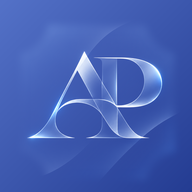
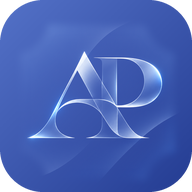
v5.10: скруглённая иконка, офлайн-кэш библиотек, ввод не теряется при обновлении из базы, PIN с клавиатуры, Esc, плавные переходы, подписи нижней панели
Claude-Session: https://claude.ai/code/session_01KmsbEKgkSZd8vVFoyhJJSp

diff --git a/v5/index.html b/v5/index.html
@@ -332,8 +332,9 @@ table.t .neg{color:var(--red)}
   html:not(.mob) #tab-sum.on,html:not(.mob) #tab-stock{max-width:1560px}
 }
 /* мобильный вид: одна колонка, крупные элементы под палец */
-html.mob .tabbar button{padding:12px 0 10px;font-size:13px}
-html.mob .tabbar svg{width:28px;height:28px}
+html.mob .tabbar button{padding:10px 0 9px;font-size:11px;min-width:0;overflow:hidden;text-overflow:ellipsis;white-space:nowrap}
+html.mob .tabbar button.on{font-weight:600;letter-spacing:-.2px}
+html.mob .tabbar svg{width:26px;height:26px}
 html.mob .btn,html.mob .btn2{padding:16px;font-size:17px}
 html.mob .in{min-height:50px;padding:14px}
 html.mob .seg button{padding:14px 4px;font-size:15px}
@@ -381,6 +382,21 @@ html.glass .sg.h,html.glass .sg.tot{background:color-mix(in srgb,var(--card-2) 5
 .sm-tag{font-size:12px;color:var(--faint);letter-spacing:.04em;text-transform:uppercase}
 .sm-frame{width:100%;height:56vh;border:1px solid var(--edge);border-radius:10px;background:#fff}
 textarea.in{resize:vertical;font-family:inherit}
+/* живость: короткие плавные переходы, без цвета и без шума */
+@keyframes arUp{from{transform:translateY(24px);opacity:0}to{transform:none;opacity:1}}
+@keyframes arFade{from{opacity:0}to{opacity:1}}
+@keyframes arPop{from{transform:translate(-50%,10px);opacity:0}to{transform:translate(-50%,0);opacity:1}}
+.sheet:not([hidden]){animation:arFade .16s ease-out}
+.sheet:not([hidden]) .sheet-box{animation:arUp .2s ease-out}
+html:not(.mob) .sheet:not([hidden]) .sheet-box{animation:arFade .18s ease-out}
+.toast:not([hidden]){animation:arPop .18s ease-out}
+.tab.on{animation:arFade .18s ease-out}
+.btn,.btn2,.pt button,.seg button,.obj,.sg,.tabbar button,.vbtn,.x{transition:transform .08s ease,background-color .15s,opacity .15s}
+.btn:active,.btn2:active,.pt button:active,.obj:active,.vbtn:active,.x:active{transform:scale(.97)}
+.row{transition:background-color .15s}
+.row.open{background:color-mix(in srgb,var(--paper2) 70%,transparent)}
+.bal{transition:color .2s}
+@media (prefers-reduced-motion:reduce){*,*::before,*::after{animation:none!important;transition:none!important}}
 </style>
 </head>
 <body>
@@ -566,7 +582,7 @@ textarea.in{resize:vertical;font-family:inherit}
           <div class="lbl">Установка на телефон</div>
           <div class="hint">iPhone: Safari, кнопка «Поделиться», «На экран Домой».<br>Android: Chrome, меню, «Установить приложение».</div>
         </div>
-        <div class="hint" style="text-align:center">АР · Тетрадь v5.9</div>
+        <div class="hint" style="text-align:center">АР · Тетрадь v5.10</div>
       </div>
     </section>
   </main>
@@ -979,7 +995,8 @@ function updateObjOptions(){
   const sel = $('#entry-obj'); const cur = S.entry.objectId;
   const opts = ['<option value="">Общий расход, без объекта</option>'].concat(
     realObjects().filter(o => o.status !== 'cancelled' && o.status !== 'done').map(o => `<option value="${esc(o.id)}">${esc(o.name)}</option>`));
-  sel.innerHTML = opts.join('');
+  const oh = opts.join('');
+  if(sel.dataset.h !== oh){ sel.innerHTML = oh; sel.dataset.h = oh; }
   sel.value = realObjects().some(o => o.id === cur) ? cur : '';
   S.entry.objectId = sel.value;
 }
@@ -1011,6 +1028,7 @@ function updateEntry(){
   if(p.usd) bits.push(p.rate ? '$' + fmt2(p.usd) + ' по ' + fmt(p.rate) : '<span class="warn">курс?</span>');
   bits.push(p.desc ? esc(p.desc) : '<span class="warn">за что?</span>');
   bits.push(KIND_LABEL[kind] + (src === 'own' ? ' из своих' : ''));
+  if(kind === 'overhead' && !S.entry.objectId && p.cat && !/Прочее/.test(p.cat)) bits.push('<span class="hint">' + esc(stripEmoji(p.cat)) + '</span>');
   let warns = p.warn.filter(w => !(p.dollars && /курс/.test(w))).map(w => `<div class="warn">${esc(w)}</div>`).join('');
   if(p.amount){
     const m = calc(), have = Math.max(m.left, 0);
@@ -1114,13 +1132,14 @@ function updateRem(){
   const box = $('#rem-card'); if(!box) return;
   if(box.contains(document.activeElement) && document.activeElement.tagName === 'SELECT') return;
   const hrs = [16, 17, 18, 19, 20, 21, 22];
-  box.innerHTML = `<div class="lbl">Напоминание внести данные</div>
+  const html = `<div class="lbl">Напоминание внести данные</div>
     <div class="hint">Если к выбранному времени за день нет ни одной записи, на этот телефон придёт уведомление. Настройка своя на каждом телефоне.</div>
     <div class="fl"><span class="hint">Время напоминания</span><select class="in" id="rem-hour" data-ch="remHour">${hrs.map(h => `<option value="${h}" ${h === S.rem.hour ? 'selected' : ''}>${pad2(h)}:00</option>`).join('')}</select></div>
     <button class="btn${S.rem.on ? '2' : ''}" data-act="${S.rem.on ? 'remOff' : 'remOn'}" ${S.rem.busy ? 'disabled' : ''}>${S.rem.on ? 'Выключить напоминание' : 'Включить напоминание'}</button>
     ${S.rem.on ? '<button class="btn2" data-act="remTest">Проверить уведомление</button>' : ''}
     <div class="hint">${S.rem.on ? (S.rem.push ? 'Включено, приходит и при закрытом приложении.' : 'Включено, работает пока приложение открыто.') : 'Выключено.'}${S.rem.msg ? '<br>' + esc(S.rem.msg) : ''}</div>
     <div class="hint">iPhone: уведомления работают, только если приложение добавлено «На экран Домой» и открыто с иконки.</div>`;
+  if(box.dataset.h !== html){ box.innerHTML = html; box.dataset.h = html; }
 }
 // </remind>
 // <calendar>
@@ -1373,9 +1392,9 @@ function updateAll(){
 
 // ───────────── записи ─────────────
 function newId(){ return Date.now() + Math.floor(Math.random() * 1000); }
-async function guard(promiseFn, okMsg){
+async function guard(promiseFn, okMsg, onFail){
   try { const p = promiseFn(); if(okMsg) toast(okMsg); await p; }
-  catch(e){ console.error(e); toast('Не сохранилось: ' + (e.code || e.message || 'ошибка')); }
+  catch(e){ console.error(e); toast('Не сохранилось: ' + (e.code || e.message || 'ошибка')); if(onFail) try { onFail(); } catch(x){} }
 }
 const usdFields = p => (p && p.usd ? { usd: p.usd, rate: p.rate } : {});
 function entryGo(){
@@ -1404,8 +1423,10 @@ function entryGo(){
     const rec = { type: kind, desc: p.desc, amount: p.amount, partner, cat: kind === 'overhead' ? p.cat : '', createdBy: S.me, ts: now, ...uf };
     job = () => adapter.addCash(rec);
   }
+  const keepText = $('#entry-text').value;
   $('#entry-text').value = ''; S.entry.kind = null; S.entry.src = 'cash';
-  guard(job, 'Записано');
+  // не записалось: возвращаем текст в поле, чтобы не набирать заново
+  guard(job, 'Записано', () => { const f = $('#entry-text'); if(!f.value){ f.value = keepText; updateEntry(); } });
   updateEntry();
 }
 function findItem(key){ return feedItems().find(i => i.key === key); }
@@ -1550,8 +1571,9 @@ function addSheetTx(){
     const p = parseLine(raw, S.rate); if(!p || !p.amount || !p.desc) return;
     tx = { id: newId(), ts: Date.now(), desc: p.desc, amount: p.amount, type, cat: guessTxCat(type, p.desc), createdBy: S.me, locked: false, ...usdFields(p) };
   }
+  const keepTx = $('#sh-text').value;
   $('#sh-text').value = ''; updateSheetEntry();
-  guard(() => adapter.addTx(o.id, tx), 'Записано');
+  guard(() => adapter.addTx(o.id, tx), 'Записано', () => { const f = $('#sh-text'); if(f && !f.value){ f.value = keepTx; updateSheetEntry(); } });
 }
 function delSheetTx(id){
   const o = S.objects.find(x => x.id === S.sheet.id); if(!o) return;
@@ -1873,6 +1895,12 @@ function lockGate(){
         setTimeout(() => { buf = ''; dots(); }, 350);
       }, 120);
     };
+    // на ПК код можно набирать с клавиатуры
+    document.addEventListener('keydown', function kd(e){
+      if(L.hidden){ document.removeEventListener('keydown', kd); return; }
+      if(/^\d$/.test(e.key)) $('#lock-pad').querySelector(`[data-k="${e.key}"]`).click();
+      else if(e.key === 'Backspace') $('#lock-pad').querySelector('[data-k="⌫"]').click();
+    });
     const tryBio = async () => { try { if(await bioCheck()) open(); } catch(e){} };
     if(LS.get('ar_bio')){ bio.hidden = false; bio.onclick = tryBio; }
     dots(); L.hidden = false;
@@ -2136,6 +2164,7 @@ document.addEventListener('click', e => {
   const f = ACT[el.dataset.act]; if(f) f(el, e);
 });
 $('#sheet').addEventListener('click', e => { if(e.target.id === 'sheet') dismissSheet(); });
+document.addEventListener('keydown', e => { if(e.key === 'Escape' && !$('#sheet').hidden) dismissSheet(); });
 $('#entry-text').addEventListener('input', () => { S.entry.kind = null; updateEntry(); });
 $('#entry-text').addEventListener('keydown', e => { if(e.key === 'Enter'){ e.preventDefault(); entryGo(); } });
 $('#ai-text').addEventListener('keydown', e => { if(e.key === 'Enter'){ e.preventDefault(); aiSend(); } });
@@ -2522,10 +2551,11 @@ function updateCabinet(){
       <button class="btn" data-act="devReg">Подключить первое устройство (код настройки)</button>
       <button class="btn2" data-act="devJoin">Подключить по приглашению</button>
       <div class="hint" id="dev-err"></div>`;
-    tb.hidden = true; return;
+    box.dataset.h = ''; tb.hidden = true; tb.dataset.h = ''; return;
   }
+  if(document.activeElement && (box.contains(document.activeElement) || tb.contains(document.activeElement)) && /INPUT|TEXTAREA/.test(document.activeElement.tagName)) return;
   const act = d.list.filter(x => !x.revoked_at), old = d.list.filter(x => x.revoked_at);
-  box.innerHTML = `<div class="lbl">Мой кабинет</div>
+  const html1 = `<div class="lbl">Мой кабинет</div>
     <div class="hint">${d.loaded ? 'Устройств подключено: <b>' + act.length + '</b>' + '' : 'Загружаю…'}</div>
     ${d.err ? `<div class="warn">${esc(d.err)}</div>` : ''}
     <div>${act.map(x => `<div class="dev"><div class="bd">${LET[partnerOf(x.who)]}</div><div style="flex:1"><div class="nm">${esc(x.name)}${x.me ? ' · это устройство' : ''}</div>
@@ -2533,14 +2563,16 @@ function updateCabinet(){
       ${d.main && !x.me ? `<button class="link-del" data-act="devRevoke" data-id="${esc(x.id)}">Отключить</button>` : ''}</div>`).join('')}</div>
     ${old.length ? `<div class="hint">Отключено: ${old.length}</div>` : ''}
     ${d.main ? '<button class="btn2" data-act="devInvite">Пригласить телефон партнёра</button>' : ''}`;
+  if(box.dataset.h !== html1){ box.innerHTML = html1; box.dataset.h = html1; }
   if(!d.main){ tb.hidden = true; return; }
   tb.hidden = false;
-  tb.innerHTML = `<div class="lbl">Токены для Claude и n8n</div>
+  const html2 = `<div class="lbl">Токены для Claude и n8n</div>
     <div class="hint">Один токен подходит и для Claude (MCP), и для n8n (HTTP). Помощник читает данные свободно, а менять их только предлагает: запись вносится после твоего «Одобрить».</div>
     <div>${d.tokens.map(x => `<div class="dev"><div style="flex:1"><div class="nm">${esc(x.name)}${x.revoked_at ? ' · отозван' : ''}</div><div class="hint">создан ${dtm(Date.parse(x.created_at))}${x.last_used_at ? ' · использован ' + dtm(Date.parse(x.last_used_at)) : ' · не использовался'}</div></div>
       ${x.revoked_at ? '' : `<button class="link-del" data-act="tokRevoke" data-id="${esc(x.id)}">Отозвать</button>`}</div>`).join('') || '<div class="hint">Токенов пока нет.</div>'}</div>
     <input class="in" id="tok-name" placeholder="Название, например Claude или n8n" autocomplete="off">
     <button class="btn" data-act="tokCreate">Создать токен</button>`;
+  if(tb.dataset.h !== html2){ tb.innerHTML = html2; tb.dataset.h = html2; }
 }
 function copyText(t){
   try { navigator.clipboard.writeText(t).then(() => toast('Скопировано'), () => toast('Не удалось скопировать')); } catch(e){ toast('Не удалось скопировать'); }
@@ -3166,9 +3198,15 @@ function updateSmeta(){
   else {
     const html = S.sm.view === 'price' ? smPriceList() : S.sm.view === 'debt' ? smDebtList() : smEstList();
     // список не перерисовываем зря: иначе обновление из базы сбило бы поле, в которое сейчас пишут
-    if(S.sm.last.body !== html || S.sm.last.view !== S.sm.view){ $('#sm-body').innerHTML = html; S.sm.last = { body: html, view: S.sm.view }; }
+    const typing = document.activeElement && $('#sm-body').contains(document.activeElement) && /INPUT|TEXTAREA|SELECT/.test(document.activeElement.tagName) && S.sm.last.view === S.sm.view;
+    if(!typing && (S.sm.last.body !== html || S.sm.last.view !== S.sm.view)){ $('#sm-body').innerHTML = html; S.sm.last = { body: html, view: S.sm.view }; }
   }
-  if(S.sheet && S.sheet.kind === 'sm' && S.sheet.debt && !$('#sheet').hidden) smDebtSheet();
+  // окно долга перерисовываем, только если данные изменились и пользователь в нём ничего не печатает
+  if(S.sheet && S.sheet.kind === 'sm' && S.sheet.debt && !$('#sheet').hidden){
+    const ae = document.activeElement, busy = ae && $('#sheet-box').contains(ae) && /INPUT|TEXTAREA/.test(ae.tagName);
+    const d = smKind('debt').find(x => x.id === S.sheet.debt), sig = d ? JSON.stringify([d, smKind('debtpay').filter(p => p.debtId === d.id)]) : '';
+    if(!busy && S.sheet.sig !== sig){ smDebtSheet(); S.sheet.sig = sig; }
+  }
 }
 Object.assign(ACT, {
   smView: el => { S.sm.view = el.dataset.v; S.sm.built = false; S.sm.last = { body: '' }; updateSmeta(); },

diff --git a/v5/sw.js b/v5/sw.js
@@ -1,7 +1,7 @@
 // АР · Тетрадь v5 — service worker.
 // Сеть в приоритете, кэш только на случай, когда интернета нет. Принимает фоновые уведомления (Web Push).
 // Область действия — только папка v5, старую CRM не затрагивает.
-const CACHE = 'ar-v5-11';
+const CACHE = 'ar-v5-12';
 
 self.addEventListener('install', () => { self.skipWaiting(); });
 
@@ -17,7 +17,9 @@ self.addEventListener('fetch', e => {
   const req = e.request;
   if (req.method !== 'GET') return;
   const url = new URL(req.url);
-  if (url.origin !== self.location.origin) return;
+  // Библиотеки базы и Excel тоже кладём в кэш: без них приложение не открывается без сети
+  const lib = (url.hostname === 'www.gstatic.com' && url.pathname.startsWith('/firebasejs/')) || (url.hostname === 'cdn.jsdelivr.net' && url.pathname.startsWith('/npm/exceljs@'));
+  if (url.origin !== self.location.origin && !lib) return;
   e.respondWith(
     fetch(req)
       .then(res => {
